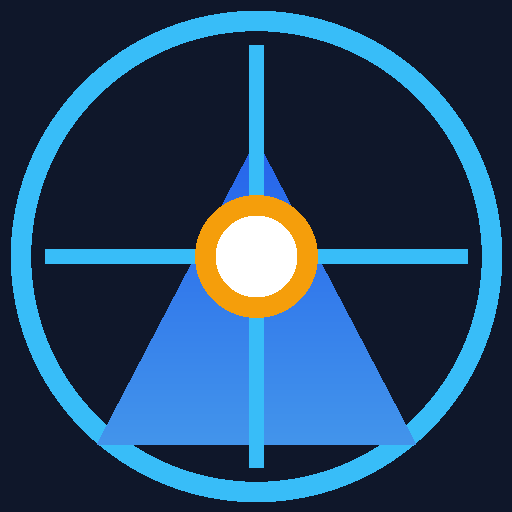
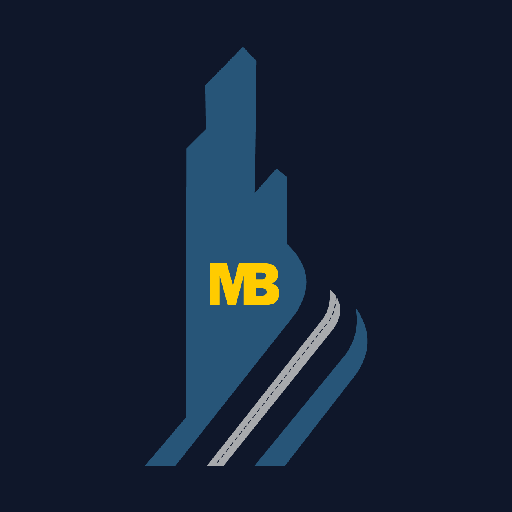
feat: responsividade mobile e identidade visual Mendes & Borges

diff --git a/src/components/Navbar.tsx b/src/components/Navbar.tsx
@@ -1,6 +1,5 @@
 import React, { useState, useRef, useEffect } from 'react';
 import {
-  Compass,
   QrCode,
   RefreshCw,
   Sheet,
@@ -49,28 +48,32 @@ export const Navbar: React.FC = () => {
   return (
     <header className="sticky top-0 z-40 bg-slate-900/95 backdrop-blur border-b border-slate-800 text-slate-100">
       <div className="max-w-7xl mx-auto px-4 sm:px-6 lg:px-8">
-        <div className="flex items-center justify-between h-16">
+        <div className="flex min-h-16 items-center justify-between gap-2 py-2">
           {/* Logo e Nome Corporativo */}
           <div
             onClick={() => setActiveView('dashboard')}
-            className="flex items-center gap-3 cursor-pointer select-none"
+            className="flex min-w-0 flex-1 items-center gap-2 cursor-pointer select-none"
           >
-            <div className="w-10 h-10 rounded-xl bg-blue-600 flex items-center justify-center text-white shadow-md shadow-blue-500/20">
-              <Compass className="w-6 h-6 stroke-[2.2]" />
+            <div className="w-9 h-9 sm:w-11 sm:h-11 shrink-0 rounded-xl bg-white/95 border border-slate-700 flex items-center justify-center p-1 shadow-md shadow-blue-500/10">
+              <img
+                src={`${import.meta.env.BASE_URL}mb-logo.png`}
+                alt="Mendes & Borges Engenharia"
+                className="h-full w-full object-contain"
+              />
             </div>
-            <div>
-              <div className="flex items-center gap-2">
-                <span className="font-bold tracking-tight text-lg text-white">M&B</span>
-                <span className="text-xs px-2 py-0.5 rounded-full bg-blue-950 text-blue-400 font-semibold border border-blue-800/50">
+            <div className="min-w-0">
+              <div className="flex min-w-0 items-center gap-2">
+                <span className="font-bold tracking-tight text-sm sm:text-lg text-white whitespace-nowrap">M&B</span>
+                <span className="hidden md:inline text-xs px-2 py-0.5 rounded-full bg-blue-950 text-blue-400 font-semibold border border-blue-800/50 truncate">
                   TOPOGRAFIA & DRONES
                 </span>
               </div>
-              <p className="text-xs text-slate-400 font-medium">Controle de Equipamentos</p>
+              <p className="hidden sm:block text-xs text-slate-400 font-medium truncate">Controle de Equipamentos</p>
             </div>
           </div>
 
           {/* Ações de Topo */}
-          <div className="flex items-center gap-2 sm:gap-3">
+          <div className="flex shrink-0 items-center gap-1.5 sm:gap-3">
             {/* Status do Google Sheets */}
             <button
               onClick={() => setConnectionModalOpen(true)}
@@ -108,13 +111,15 @@ export const Navbar: React.FC = () => {
               </button>
             )}
 
-            {/* Botão de Instalação PWA */}
-            <PWAInstallButton />
+            {/* Botão de Instalação PWA: no celular, o Chrome também oferece a instalação pelo menu. */}
+            <div className="hidden sm:block">
+              <PWAInstallButton />
+            </div>
 
             {/* Leitor de QR Code */}
             <button
               onClick={() => openQrScanner({ mode: 'lookup' })}
-              className="flex items-center gap-1.5 bg-blue-600 hover:bg-blue-500 active:bg-blue-700 text-white px-3 py-1.5 rounded-lg text-xs font-semibold shadow-sm transition-all"
+              className="flex items-center gap-1.5 bg-blue-600 hover:bg-blue-500 active:bg-blue-700 text-white px-2 sm:px-3 py-1.5 rounded-lg text-xs font-semibold shadow-sm transition-all"
             >
               <QrCode className="w-4 h-4" />
               <span className="hidden md:inline">Ler QR Code</span>
@@ -122,10 +127,10 @@ export const Navbar: React.FC = () => {
             </button>
 
             {/* Perfil Google Workspace com Dropdown de Governança / RBAC */}
-            <div className="relative" ref={dropdownRef}>
+            <div className="relative shrink-0" ref={dropdownRef}>
               <button
                 onClick={() => setProfileDropdownOpen(!profileDropdownOpen)}
-                className="flex items-center gap-2 pl-2 border-l border-slate-800 text-xs hover:bg-slate-800/60 p-1.5 rounded-xl transition-colors"
+                className="flex items-center gap-1 sm:gap-2 sm:pl-2 border-l border-slate-800 text-xs hover:bg-slate-800/60 p-1.5 rounded-xl transition-colors"
                 title="Perfil Google Workspace Conectado"
               >
                 <div

diff --git a/scripts/generateIcons.js b/scripts/generateIcons.js
@@ -2,75 +2,44 @@ import fs from 'fs';
 import path from 'path';
 import { PNG } from 'pngjs';
 
+const publicDir = path.resolve(process.cwd(), 'public');
+const logoPath = path.join(publicDir, 'mb-logo.png');
+
 function createIcon(size, isMaskable = false) {
   const png = new PNG({ width: size, height: size });
-  const center = size / 2;
-  const radius = size * (isMaskable ? 0.38 : 0.46);
+  const logo = PNG.sync.read(fs.readFileSync(logoPath));
+  const maxLogoWidth = size * (isMaskable ? 0.52 : 0.64);
+  const maxLogoHeight = size * (isMaskable ? 0.72 : 0.82);
+  const scale = Math.min(maxLogoWidth / logo.width, maxLogoHeight / logo.height);
+  const logoWidth = Math.max(1, Math.round(logo.width * scale));
+  const logoHeight = Math.max(1, Math.round(logo.height * scale));
+  const offsetX = Math.floor((size - logoWidth) / 2);
+  const offsetY = Math.floor((size - logoHeight) / 2);
 
   for (let y = 0; y < size; y++) {
     for (let x = 0; x < size; x++) {
       const idx = (size * y + x) << 2;
-      const dx = x - center;
-      const dy = y - center;
-      const dist = Math.sqrt(dx * dx + dy * dy);
+      png.data[idx] = 15;
+      png.data[idx + 1] = 23;
+      png.data[idx + 2] = 42;
+      png.data[idx + 3] = 255;
 
-      // Fundo Slate Escuro #0f172a
-      let r = 15;
-      let g = 23;
-      let b = 42;
-      let a = 255;
+      const sourceX = Math.floor((x - offsetX) / scale);
+      const sourceY = Math.floor((y - offsetY) / scale);
+      if (sourceX < 0 || sourceX >= logo.width || sourceY < 0 || sourceY >= logo.height) continue;
 
-      // Anel circular externo
-      if (Math.abs(dist - radius) < size * 0.02) {
-        // Azul claro
-        r = 56;
-        g = 189;
-        b = 248;
-      }
-
-      // Triângulo do Prisma / Drone
-      // Vértices normalizados
-      const ny = (y - (center - radius * 0.5)) / (radius * 1.3);
-      const nx = (x - center) / (radius * 0.8);
-      if (ny >= 0 && ny <= 1 && Math.abs(nx) <= (ny * 0.85)) {
-        // Dentro do prisma - Gradiente Azul Nobre
-        r = Math.floor(37 + ny * 30);
-        g = Math.floor(99 + ny * 50);
-        b = Math.floor(235);
-      }
-
-      // Núcleo central
-      if (dist < size * 0.08) {
-        // Branco puro central
-        r = 255;
-        g = 255;
-        b = 255;
-      } else if (dist < size * 0.12) {
-        // Anel âmbar
-        r = 245;
-        g = 158;
-        b = 11;
-      }
-
-      // Cruz do retículo
-      if ((Math.abs(dx) < size * 0.015 && dist < radius * 0.9 && dist > size * 0.12) ||
-          (Math.abs(dy) < size * 0.015 && dist < radius * 0.9 && dist > size * 0.12)) {
-        r = 56;
-        g = 189;
-        b = 248;
-      }
-
-      png.data[idx] = r;
-      png.data[idx + 1] = g;
-      png.data[idx + 2] = b;
-      png.data[idx + 3] = a;
+      const sourceIdx = (logo.width * sourceY + sourceX) << 2;
+      const alpha = logo.data[sourceIdx + 3] / 255;
+      if (alpha === 0) continue;
+      const backgroundAlpha = 1 - alpha;
+      png.data[idx] = Math.round(logo.data[sourceIdx] * alpha + png.data[idx] * backgroundAlpha);
+      png.data[idx + 1] = Math.round(logo.data[sourceIdx + 1] * alpha + png.data[idx + 1] * backgroundAlpha);
+      png.data[idx + 2] = Math.round(logo.data[sourceIdx + 2] * alpha + png.data[idx + 2] * backgroundAlpha);
     }
   }
 
   return PNG.sync.write(png);
 }
-
-const publicDir = path.resolve(process.cwd(), 'public');
 
 console.log('Gerando ícones PWA...');
 fs.writeFileSync(path.join(publicDir, 'pwa-192x192.png'), createIcon(192, false));

diff --git a/src/components/BottomNav.tsx b/src/components/BottomNav.tsx
@@ -90,7 +90,7 @@ export const BottomNav: React.FC = () => {
 
       {/* Mobile Sticky Bottom Bar (Thumb-optimized for Android / iPhone) */}
       <nav className="lg:hidden fixed bottom-0 left-0 right-0 z-40 bg-slate-950/95 backdrop-blur border-t border-slate-800 pb-safe">
-        <div className="flex items-center justify-around px-1 py-1 max-w-lg mx-auto">
+        <div className="grid grid-cols-6 items-stretch px-1 py-1 max-w-lg mx-auto">
           {navItems.slice(0, 5).map((item) => {
             const Icon = item.icon;
             const isActive = activeView === item.id;
@@ -98,7 +98,7 @@ export const BottomNav: React.FC = () => {
               <button
                 key={item.id}
                 onClick={() => setActiveView(item.id)}
-                className={`flex flex-col items-center justify-center flex-1 py-1 px-1 rounded-xl transition-all relative ${
+                className={`flex min-w-0 flex-col items-center justify-center py-1.5 px-0.5 rounded-xl transition-all relative ${
                   isActive ? 'text-blue-400 font-bold' : 'text-slate-400 hover:text-slate-200'
                 }`}
               >
@@ -110,7 +110,7 @@ export const BottomNav: React.FC = () => {
                     </span>
                   )}
                 </div>
-                <span className="text-[10px] tracking-tight mt-0.5">{item.shortLabel}</span>
+                <span className="block max-w-full truncate text-[10px] leading-3 tracking-tight mt-1">{item.shortLabel}</span>
               </button>
             );
           })}
@@ -123,7 +123,7 @@ export const BottomNav: React.FC = () => {
               else if (activeView === 'historico') setActiveView('configuracao');
               else setActiveView('kits');
             }}
-            className={`flex flex-col items-center justify-center flex-1 py-1 px-1 rounded-xl transition-all relative ${
+            className={`flex min-w-0 flex-col items-center justify-center py-1.5 px-0.5 rounded-xl transition-all relative ${
               activeView === 'kits' || activeView === 'manutencao' || activeView === 'historico' || activeView === 'configuracao'
                 ? 'text-blue-400 font-bold'
                 : 'text-slate-400 hover:text-slate-200'
@@ -137,7 +137,7 @@ export const BottomNav: React.FC = () => {
                 </span>
               )}
             </div>
-            <span className="text-[10px] tracking-tight mt-0.5">
+            <span className="block max-w-full truncate text-[10px] leading-3 tracking-tight mt-1">
               {activeView === 'kits'
                 ? 'Kits'
                 : activeView === 'manutencao'

diff --git a/src/components/views/DashboardView.tsx b/src/components/views/DashboardView.tsx
@@ -160,18 +160,27 @@ export const DashboardView: React.FC = () => {
     <div className="space-y-6 pb-20 lg:pb-12 max-w-7xl mx-auto px-4 sm:px-6 lg:px-8 pt-4">
       {/* Top Header & Contexto Operacional */}
       <div className="flex flex-col sm:flex-row sm:items-center sm:justify-between gap-3 border-b border-slate-800 pb-4">
-        <div>
-          <div className="flex items-center gap-2">
-            <h1 className="text-xl font-bold text-white tracking-tight">
+        <div className="flex min-w-0 items-start gap-3">
+          <div className="w-14 h-14 sm:w-16 sm:h-16 shrink-0 rounded-2xl bg-white/95 border border-slate-700 p-1.5 shadow-lg shadow-blue-950/20">
+            <img
+              src={`${import.meta.env.BASE_URL}mb-logo.png`}
+              alt="Mendes & Borges Engenharia"
+              className="h-full w-full object-contain"
+            />
+          </div>
+          <div className="min-w-0">
+          <div className="flex flex-wrap items-center gap-2">
+            <h1 className="min-w-0 text-lg sm:text-xl font-bold text-white tracking-tight break-words">
               M&B Controle de Equipamentos
             </h1>
-            <span className="text-[10px] font-bold px-2 py-0.5 rounded-full bg-blue-950 text-blue-300 border border-blue-800">
+            <span className="shrink-0 text-[10px] font-bold px-2 py-0.5 rounded-full bg-blue-950 text-blue-300 border border-blue-800">
               Palmas - TO
             </span>
           </div>
           <p className="text-xs text-slate-400 mt-0.5">
             Painel operacional de rastreabilidade de drones, GNSS, estações e acessórios de topografia.
           </p>
+          </div>
         </div>
 
         <div className="flex flex-wrap items-center gap-2">

diff --git a/index.html b/index.html
@@ -13,10 +13,11 @@
     <meta name="apple-mobile-web-app-capable" content="yes" />
     <meta name="apple-mobile-web-app-status-bar-style" content="black-translucent" />
     <meta name="apple-mobile-web-app-title" content="M&B Equip." />
-    <link rel="manifest" href="/manifest.json" />
-    <link rel="apple-touch-icon" href="/apple-touch-icon.png" />
-    <link rel="icon" type="image/svg+xml" href="/icon.svg" />
-    <link rel="icon" type="image/png" sizes="192x192" href="/pwa-192x192.png" />
+    <link rel="manifest" href="./manifest.json" />
+    <link rel="apple-touch-icon" href="./apple-touch-icon.png" />
+    <link rel="icon" type="image/png" href="./mb-logo.png" />
+    <link rel="icon" type="image/svg+xml" href="./icon.svg" />
+    <link rel="icon" type="image/png" sizes="192x192" href="./pwa-192x192.png" />
   </head>
   <body class="bg-slate-900 text-slate-100 antialiased selection:bg-blue-600 selection:text-white">
     <div id="root"></div>

diff --git a/src/App.tsx b/src/App.tsx
@@ -28,7 +28,7 @@ const MainLayout: React.FC = () => {
     <div className="min-h-screen bg-slate-950 text-slate-100 flex flex-col selection:bg-blue-600 selection:text-white font-sans antialiased">
       <Navbar />
       <BottomNav />
-      <main className="flex-1 w-full">
+      <main className="flex-1 w-full min-w-0 overflow-x-hidden pb-24 lg:pb-0">
         {activeView === 'dashboard' && <DashboardView />}
         {activeView === 'equipamentos' && <EquipamentosView />}
         {activeView === 'nova-saida' && <NovaSaidaView />}

diff --git a/src/index.css b/src/index.css
@@ -1,5 +1,33 @@
 @import "tailwindcss";
 
+:root {
+  color-scheme: dark;
+}
+
+html,
+body,
+#root {
+  min-height: 100%;
+  width: 100%;
+  margin: 0;
+}
+
+body {
+  overflow-x: hidden;
+  -webkit-tap-highlight-color: transparent;
+}
+
+button,
+input,
+select,
+textarea {
+  max-width: 100%;
+}
+
+.pb-safe {
+  padding-bottom: max(0.25rem, env(safe-area-inset-bottom));
+}
+
 @media print {
   body {
     background-color: #ffffff !important;
